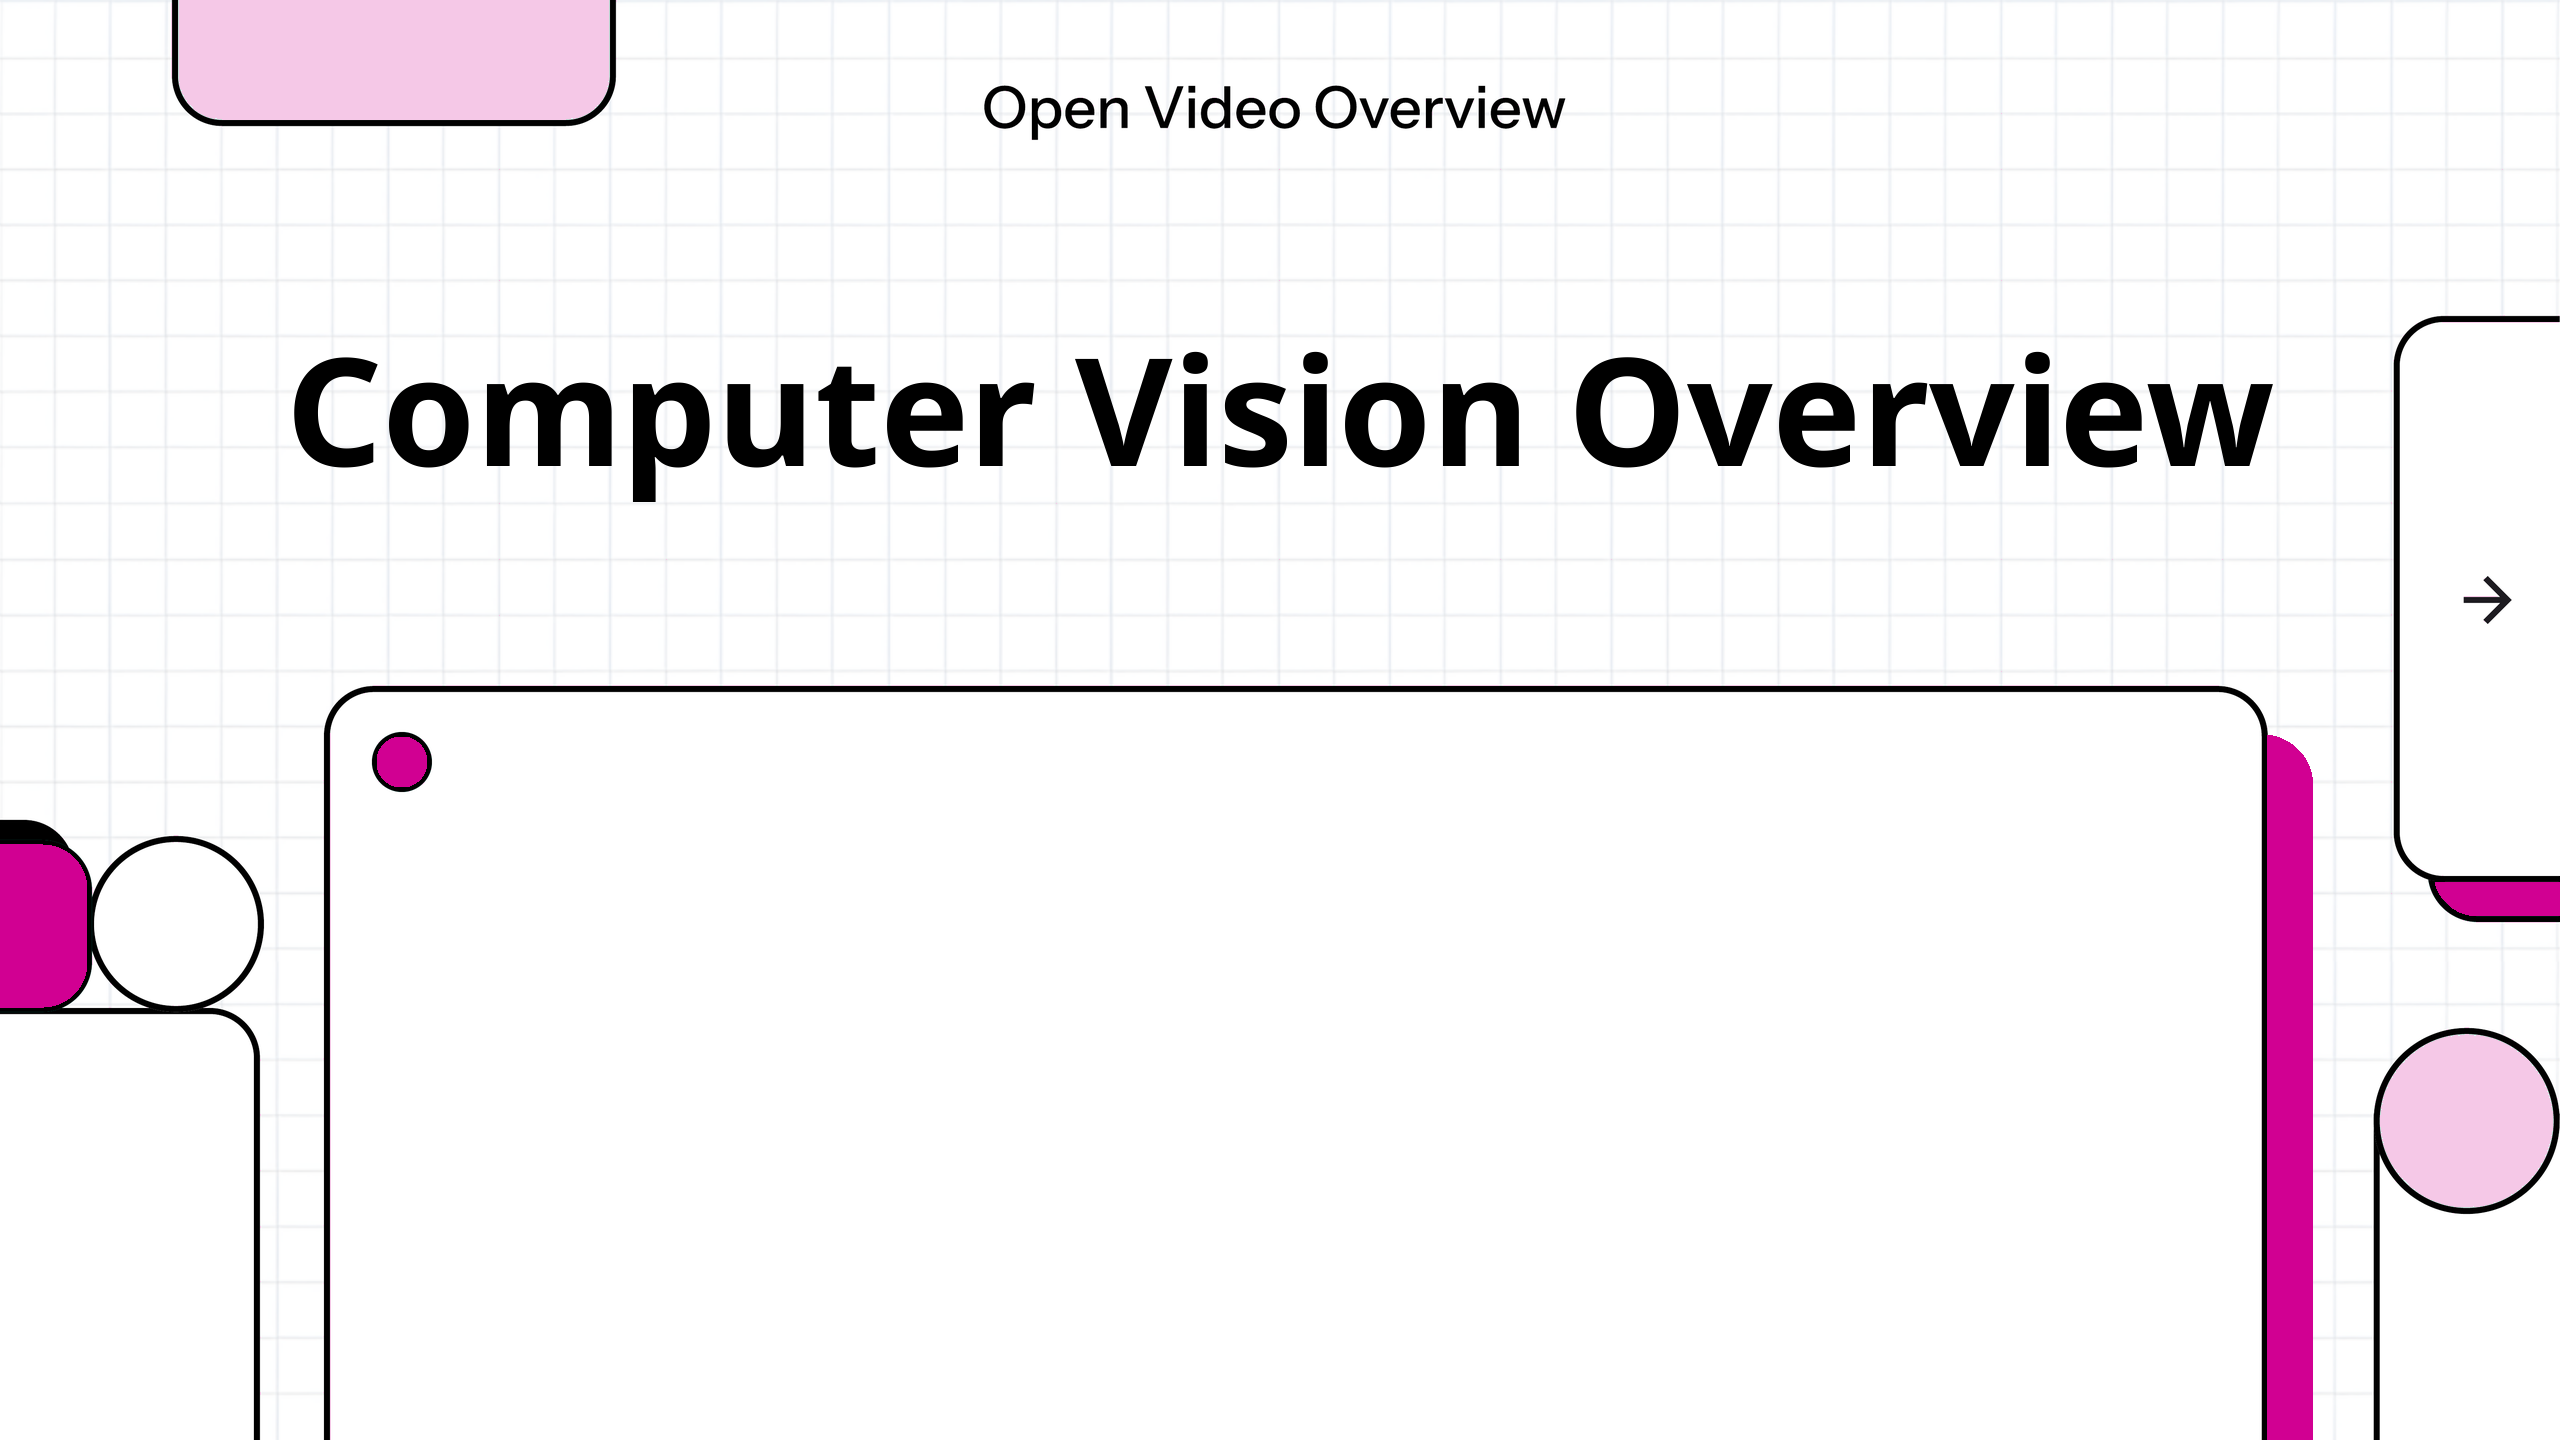
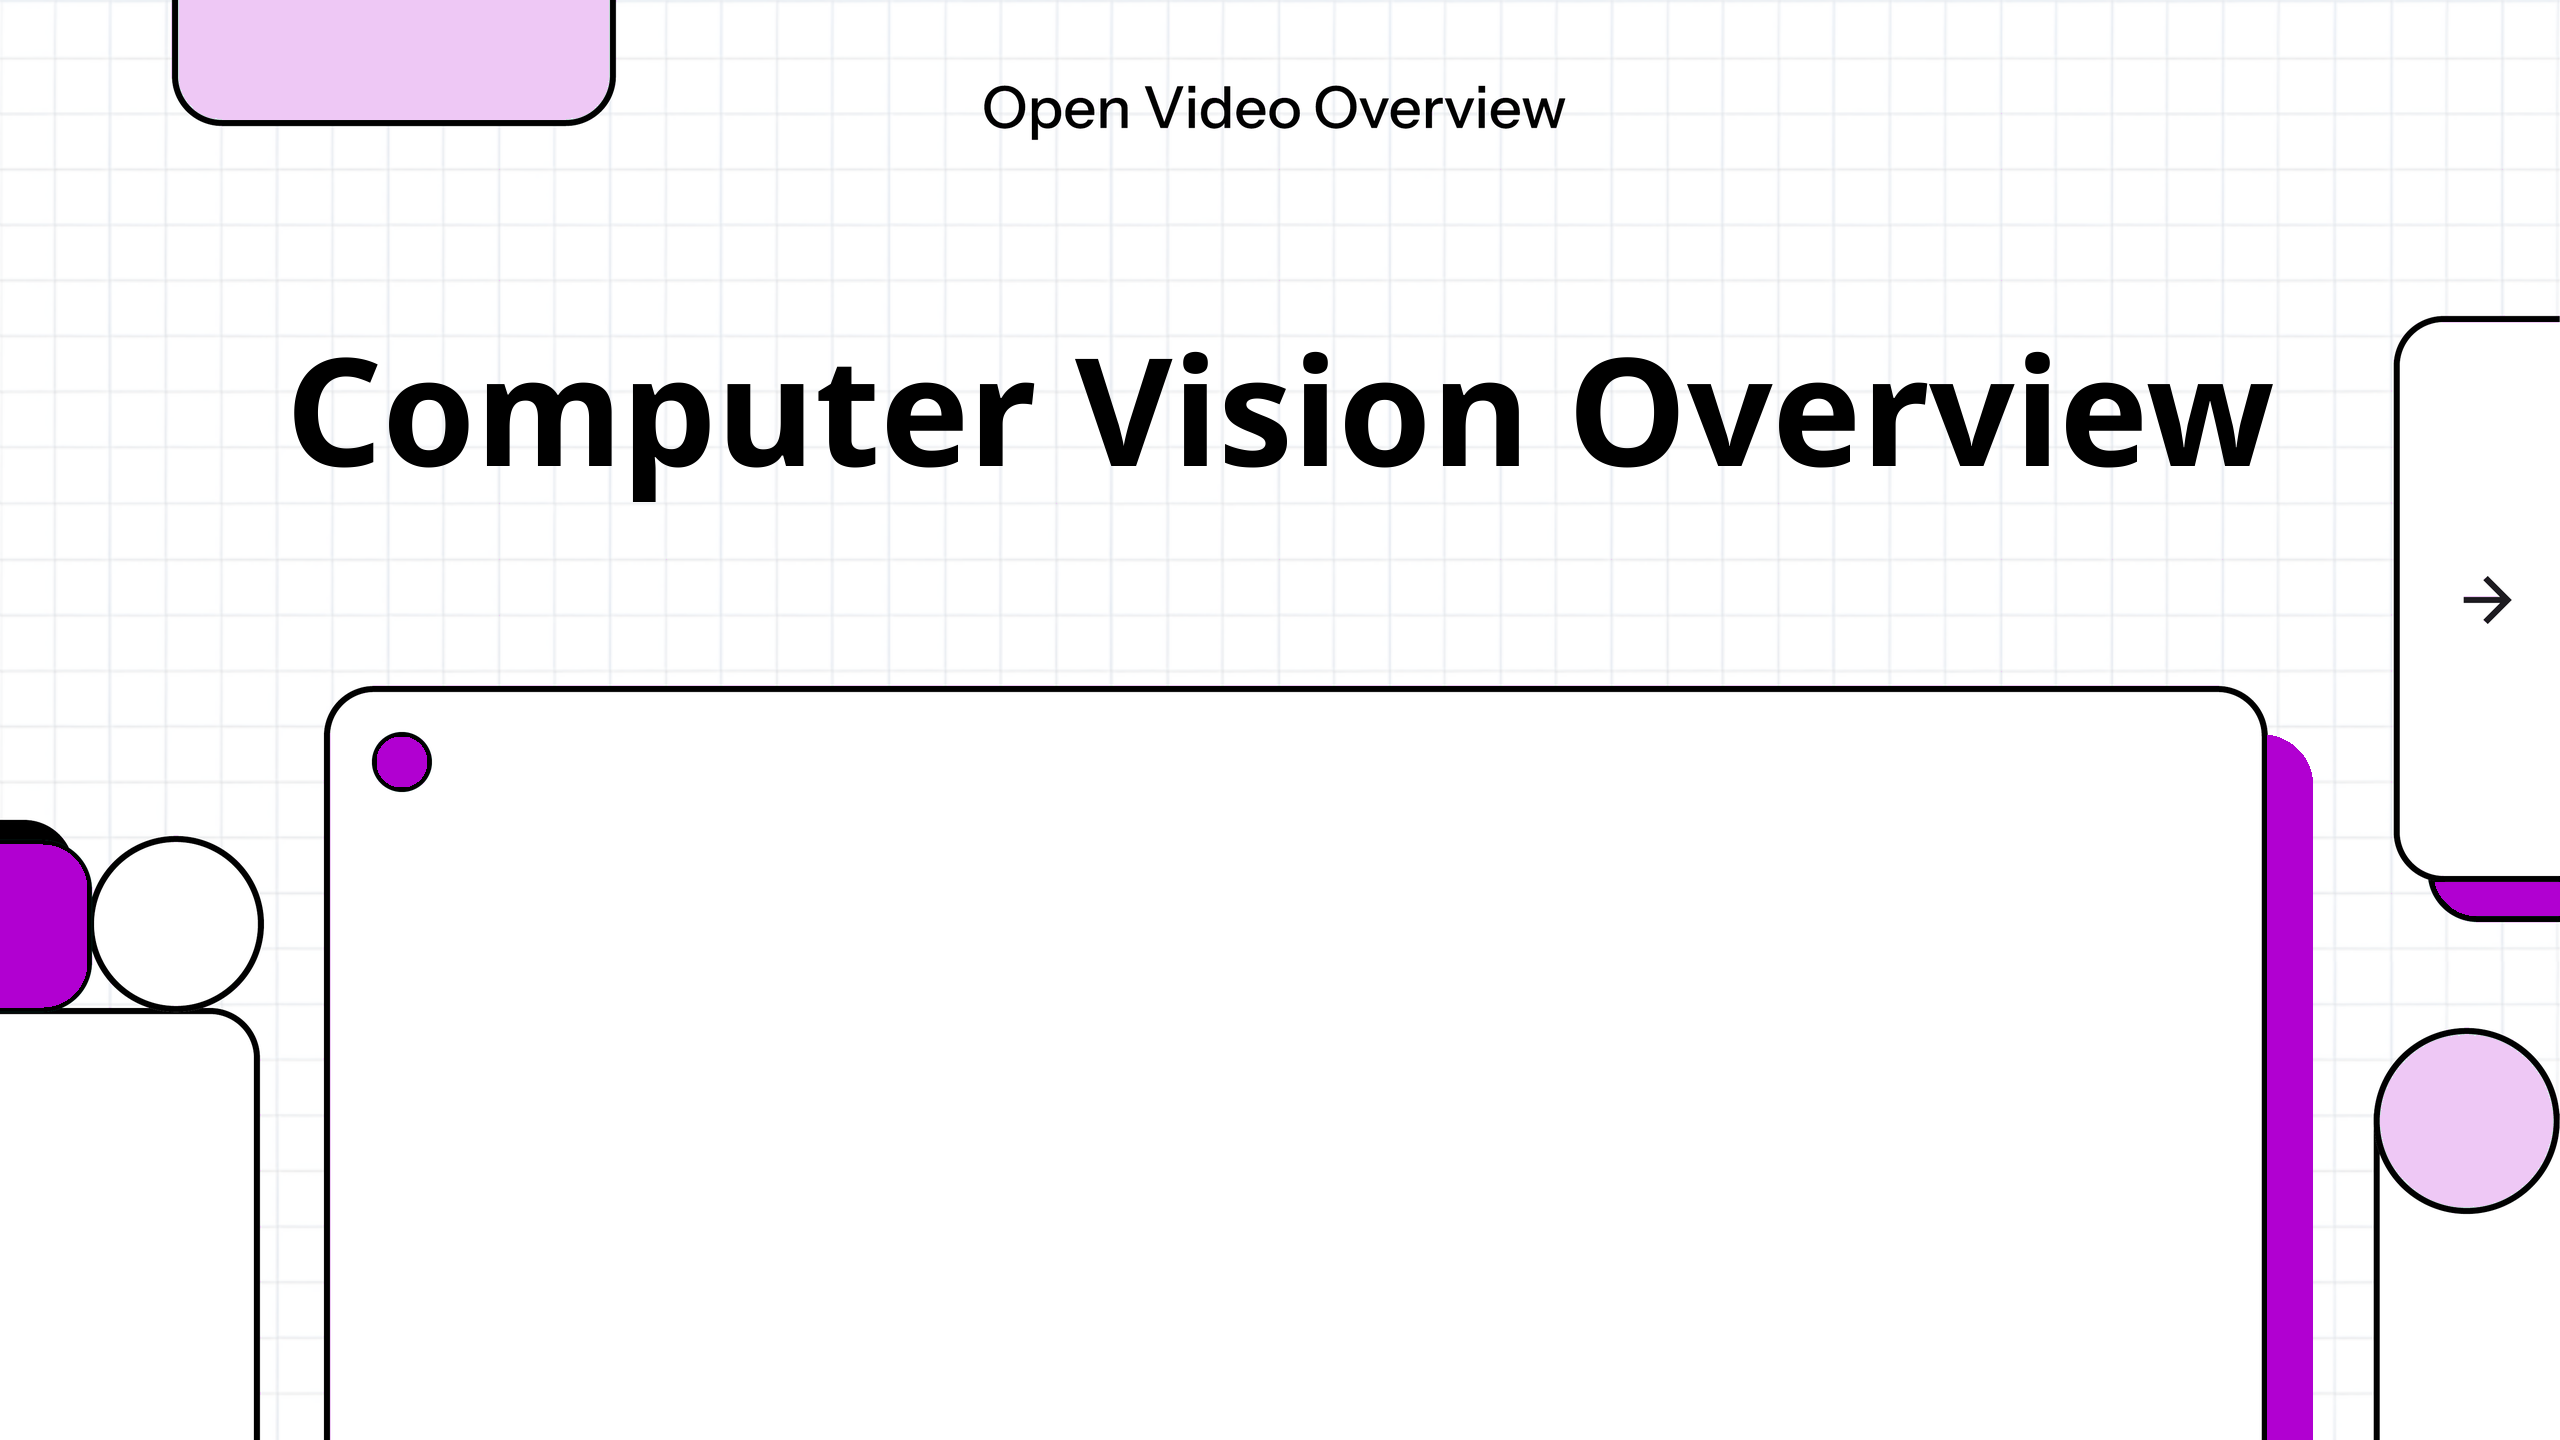
added opeing and definition

diff --git a/python.py b/python.py
@@ -88,58 +88,68 @@ def add_data_for_opening(image_to_draw_on, data, font_dir):
     return image_to_draw_on
 
 def paste_emoji_image(base_img, emoji_char, pos, size, emoji_dir):
-    # Lấy mã Unicode hex (VD: 😀 => 1f600.png)
+    """Dán emoji PNG vào vị trí (pos) với kích thước (size)."""
+    # Chuyển emoji thành mã hex (VD: 😀 => 1f600.png)
     codepoints = "-".join(f"{ord(c):x}" for c in emoji_char)
     emoji_file = os.path.join(emoji_dir, f"{codepoints}.png")
+    
     if not os.path.exists(emoji_file):
         print(f"⚠ Không tìm thấy emoji '{emoji_char}' ({emoji_file})")
         return base_img
+    
     emoji_img = Image.open(emoji_file).convert("RGBA")
     emoji_img = emoji_img.resize((size, size), Image.LANCZOS)
+    
     base_img.paste(emoji_img, pos, emoji_img)
     return base_img
+
 
 def add_data_for_definition(image_to_draw_on, data, font_dir):
     definition_text = data.get('definition', '')
     term = data.get('term', '')
-    font_for_term = load_font(font_dir, "NotoSans-Bold.ttf", 120)
+    
+    font_for_term = load_font(font_dir, "NotoSans-Bold.ttf", 100)
     font_for_definition = load_font(font_dir, "NotoSans-Regular.ttf", 60)
     draw = ImageDraw.Draw(image_to_draw_on)
 
-    # Emoji màu từ Twemoji
+    # ===== Emoji settings =====
     emoji_char = data.get('emoji', '😀')
-    emoji_dir = "emojis"  # thư mục chứa PNG emoji
-    image_to_draw_on = paste_emoji_image(image_to_draw_on, emoji_char, (500, int(image_to_draw_on.height/2 - 200)), 200, emoji_dir)
+    emoji_dir = "emojis"  # Thư mục chứa PNG emoji
+    emoji_size = 300      # Kích thước emoji
+    emoji_x = 1900         # Vị trí X mặc định
+    emoji_y = int(image_to_draw_on.height / 2 - 300)  # Vị trí Y mặc định
+    image_to_draw_on = paste_emoji_image(image_to_draw_on, emoji_char, (emoji_x, emoji_y), emoji_size, emoji_dir)
 
-    # Term
+    # ===== Term =====
     term_x = 250
-    term_y = 200
+    term_y = 300
     draw.text((term_x, term_y), term, fill="black", font=font_for_term, anchor="lt")
 
-    # Definition
+    # ===== Definition =====
     def_x = 250
-    def_y = 400
+    def_y = 500
     max_width = 1400
     def_lines, _ = wrap_text_to_fit_width(definition_text, font_for_definition, max_width)
     line_height = draw.textbbox((0, 0), "Aa", font=font_for_definition)[3] * 1.3
+    
     for i, line in enumerate(def_lines):
         line_y = def_y + (i * line_height)
         draw.text((def_x, line_y), line, fill="black", font=font_for_definition, anchor="lt")
+    
     return image_to_draw_on
+
 
 # ==============================================================================
 # --- CHƯƠNG TRÌNH CHÍNH ---
 # ==============================================================================
 
-def process_slide(template_file, data, template_dir, font_dir, output_dir):
+def process_slide(template_file, data, template_dir, font_dir, output_dir, random_hue=random.randint(0, 360)):
     template_path = os.path.join(template_dir, template_file)
     try:
         template_img = Image.open(template_path).convert('RGBA')
     except FileNotFoundError:
         print(f"❌ Không tìm thấy template '{template_path}'")
         return False
-
-    random_hue = random.randint(0, 360)
     image_with_background = apply_background(template_img, random_hue)
 
     template_name = os.path.splitext(template_file)[0]
@@ -179,8 +189,9 @@ if __name__ == "__main__":
     ]
 
     successful_slides = 0
+    random_hue = random.randint(0, 360)
     for slide_config in slides_data:
-        if process_slide(slide_config["template"], slide_config["data"], TEMPLATE_DIR, FONT_DIR, OUTPUT_DIR):
+        if process_slide(slide_config["template"], slide_config["data"], TEMPLATE_DIR, FONT_DIR, OUTPUT_DIR, random_hue):
             successful_slides += 1
 
     print(f"Hoàn tất: {successful_slides}/{len(slides_data)} slide.")
